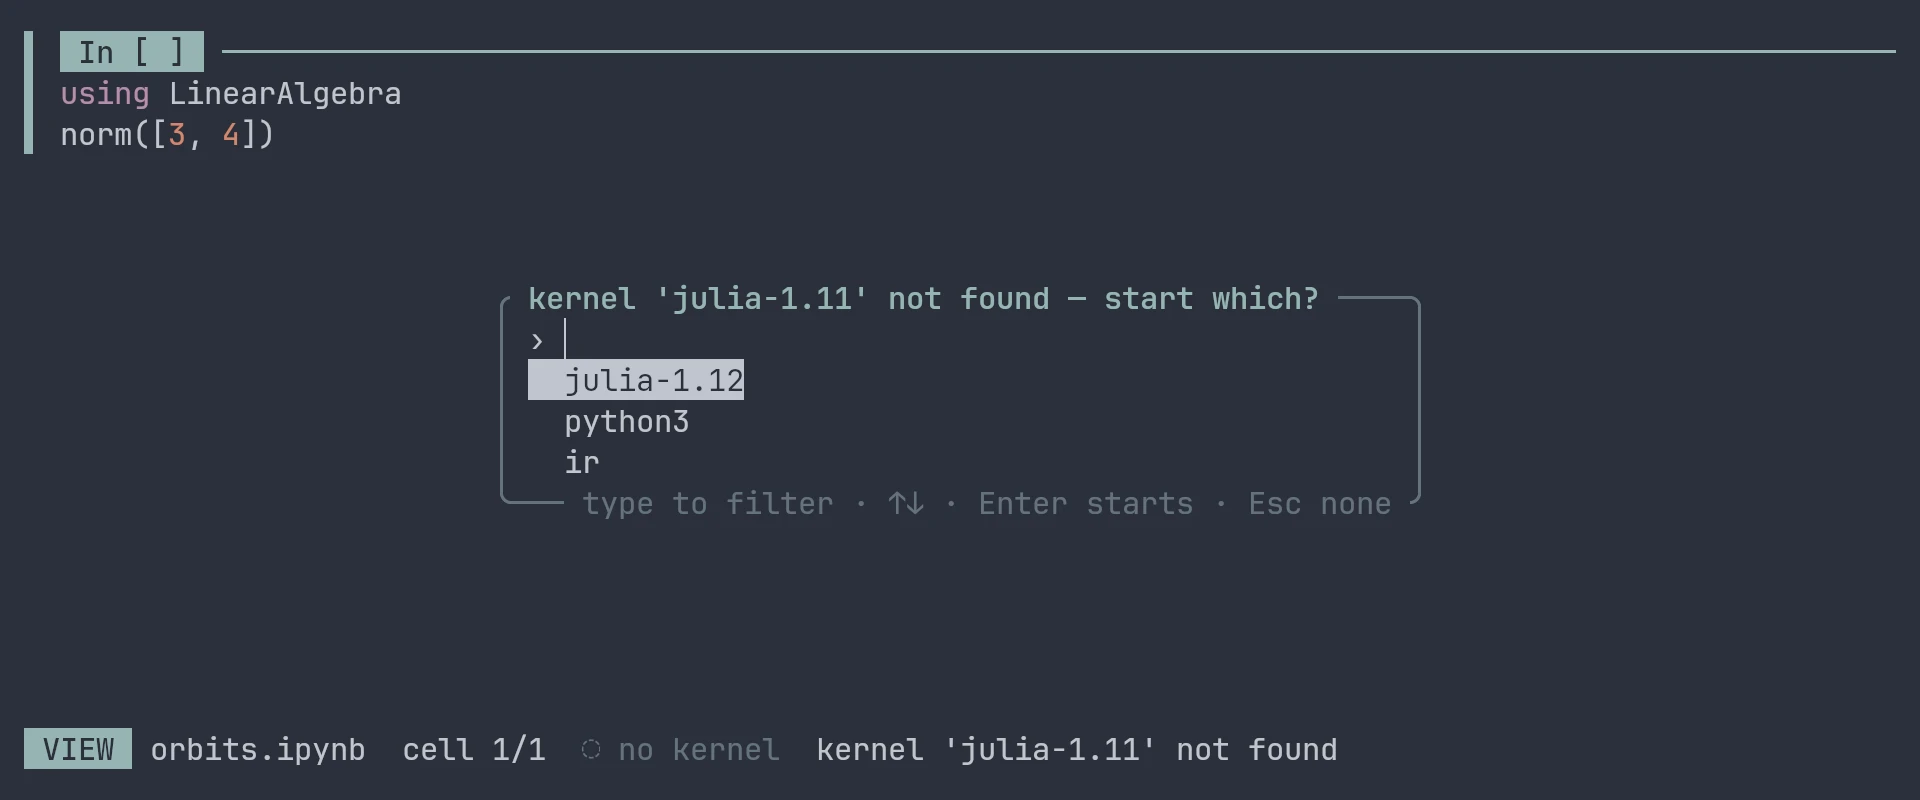
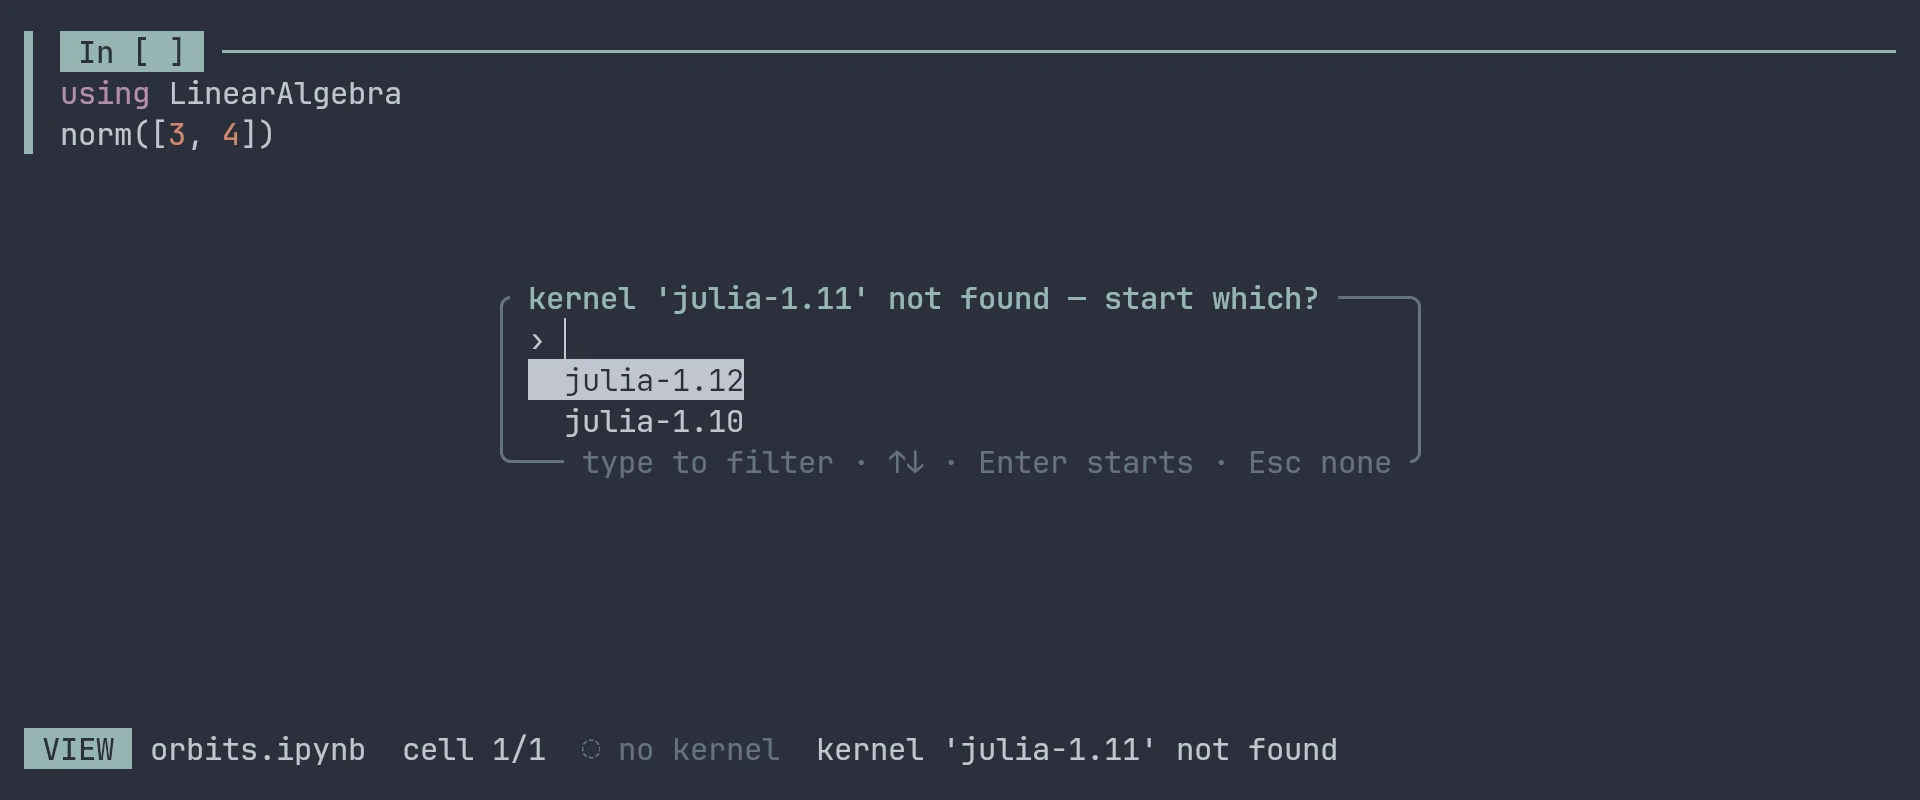
feat: offer only kernels for the notebook's language in the picker
Every installed kernel is listed only when none matches the language.

diff --git a/src/app.rs b/src/app.rs
@@ -2033,9 +2033,11 @@ impl App {
                         "kernel '{wanted}' not found, and no other is installed — pip install ipykernel in your venv"
                     ));
                 } else {
-                    // kernels for the notebook's language first
+                    // only kernels for the notebook's language, if there are any
                     let lang = crate::ui::notebook_language(&self.notebook);
-                    kernels.sort_by_key(|(_, l)| !l.eq_ignore_ascii_case(&lang));
+                    if kernels.iter().any(|(_, l)| l.eq_ignore_ascii_case(&lang)) {
+                        kernels.retain(|(_, l)| l.eq_ignore_ascii_case(&lang));
+                    }
                     self.message = Some(format!("kernel '{wanted}' not found"));
                     self.kernel_pick = Some(KernelPick {
                         wanted,
@@ -2242,6 +2244,7 @@ pub(super) mod tests {
             kernels: vec![
                 ("python3".into(), "python".into()),
                 ("julia-1.12".into(), "julia".into()),
+                ("julia-1.10".into(), "Julia".into()),
             ],
         };
         app.apply_kernel_event(not_found(), &mut r);
@@ -2251,8 +2254,8 @@ pub(super) mod tests {
         };
         assert_eq!(
             shown(&app),
-            ["julia-1.12", "python3"],
-            "same language first"
+            ["julia-1.12", "julia-1.10"],
+            "only the notebook's language"
         );
         app.on_key(KeyEvent::new(KeyCode::Esc, KeyModifiers::NONE), &mut r);
         assert!(
@@ -2262,10 +2265,10 @@ pub(super) mod tests {
         assert_eq!(app.kernel_name, "julia-1.11");
 
         app.apply_kernel_event(not_found(), &mut r);
-        for c in "PY".chars() {
+        for c in "A-1.10".chars() {
             app.on_key(key(c), &mut r);
         }
-        assert_eq!(shown(&app), ["python3"], "typing filters, ignoring case");
+        assert_eq!(shown(&app), ["julia-1.10"], "typing filters, ignoring case");
         app.on_key(key('x'), &mut r);
         app.on_key(KeyEvent::new(KeyCode::Enter, KeyModifiers::NONE), &mut r);
         assert!(
@@ -2277,8 +2280,23 @@ pub(super) mod tests {
             &mut r,
         );
         app.on_key(KeyEvent::new(KeyCode::Enter, KeyModifiers::NONE), &mut r);
-        assert_eq!(app.kernel_name, "python3");
+        assert_eq!(app.kernel_name, "julia-1.10");
         assert!(app.kernel_pick.is_none());
+
+        // nothing for the notebook's language: everything is offered
+        app.launch = 2;
+        app.apply_kernel_event(
+            Event::NotFound {
+                launch: 2,
+                wanted: "x".into(),
+                kernels: vec![
+                    ("rust".into(), "rust".into()),
+                    ("ir".into(), "R".into()),
+                ],
+            },
+            &mut r,
+        );
+        assert_eq!(shown(&app), ["rust", "ir"]);
         assert!(app.notebook.extra["metadata"].get("kernelspec").is_none());
     }
 
